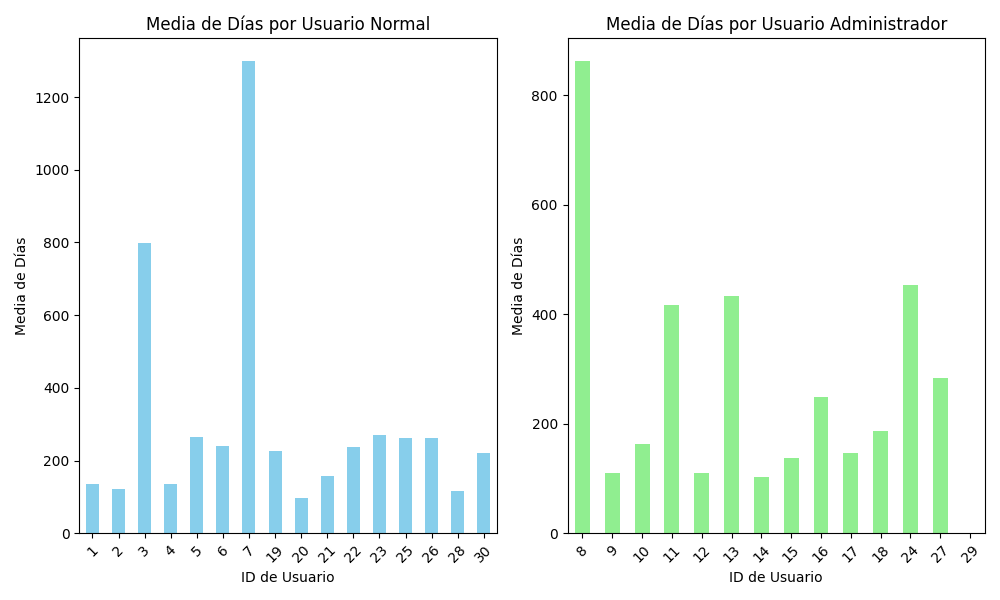
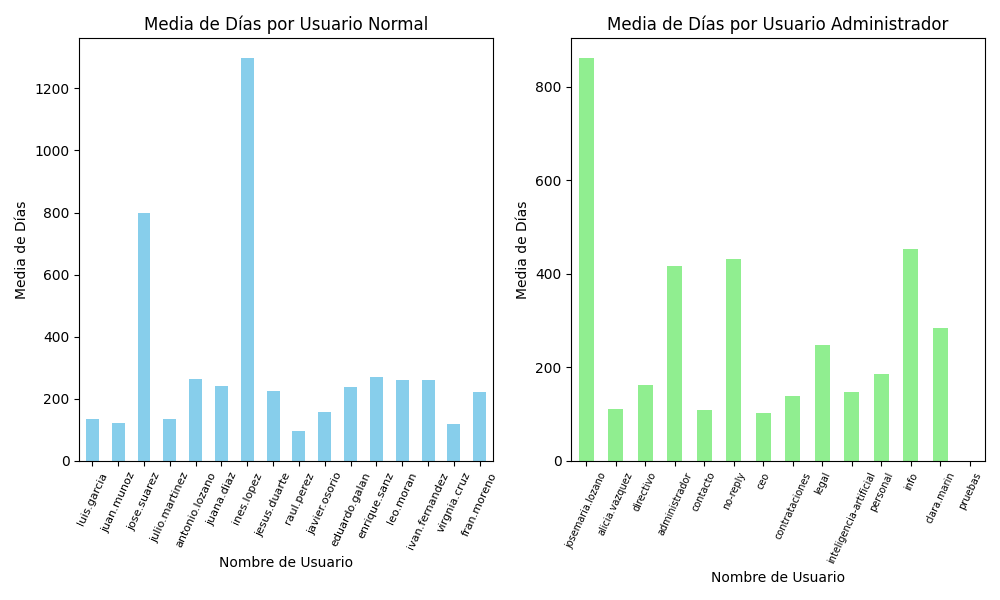
Corregir Ej4_1

diff --git a/Práctica1_SI/Ejercicio4/Ej4_1.py b/Práctica1_SI/Ejercicio4/Ej4_1.py
@@ -6,7 +6,7 @@ import matplotlib.pyplot as plt
 conn = sqlite3.connect('datos.db')
 
 # Leer los datos de la tabla
-df = pd.read_sql_query('''SELECT u.id_usuario, u.permisos, f.fecha
+df = pd.read_sql_query('''SELECT u.nombre_usuario, u.id_usuario, u.permisos, f.fecha
                                    FROM usuarios u INNER JOIN fechas f ON f.id_usuario=u.id_usuario
                                    ''', conn)
 
@@ -41,18 +41,20 @@ media_tiempo_por_usuario_priv = df_perm_1_order.groupby('id_usuario')['diferenci
 plt.figure(figsize=(10, 6))
 
 plt.subplot(1, 2, 1)
+media_tiempo_por_usuario_normal.index = df_perm_0_order.groupby('id_usuario')['nombre_usuario'].first()
 media_tiempo_por_usuario_normal.plot(kind='bar', color='skyblue')
 plt.title('Media de Días por Usuario Normal')
-plt.xlabel('ID de Usuario')
+plt.xlabel('Nombre de Usuario')
 plt.ylabel('Media de Días')
-plt.xticks(rotation=45)
+plt.xticks(rotation=65, fontsize=8)
 
 plt.subplot(1, 2, 2)
+media_tiempo_por_usuario_priv.index = df_perm_1_order.groupby('id_usuario')['nombre_usuario'].first()
 media_tiempo_por_usuario_priv.plot(kind='bar', color='lightgreen')
 plt.title('Media de Días por Usuario Administrador')
-plt.xlabel('ID de Usuario')
+plt.xlabel('Nombre de Usuario')
 plt.ylabel('Media de Días')
-plt.xticks(rotation=45)
+plt.xticks(rotation=65, fontsize=7)
 
 plt.tight_layout()
 plt.show()
